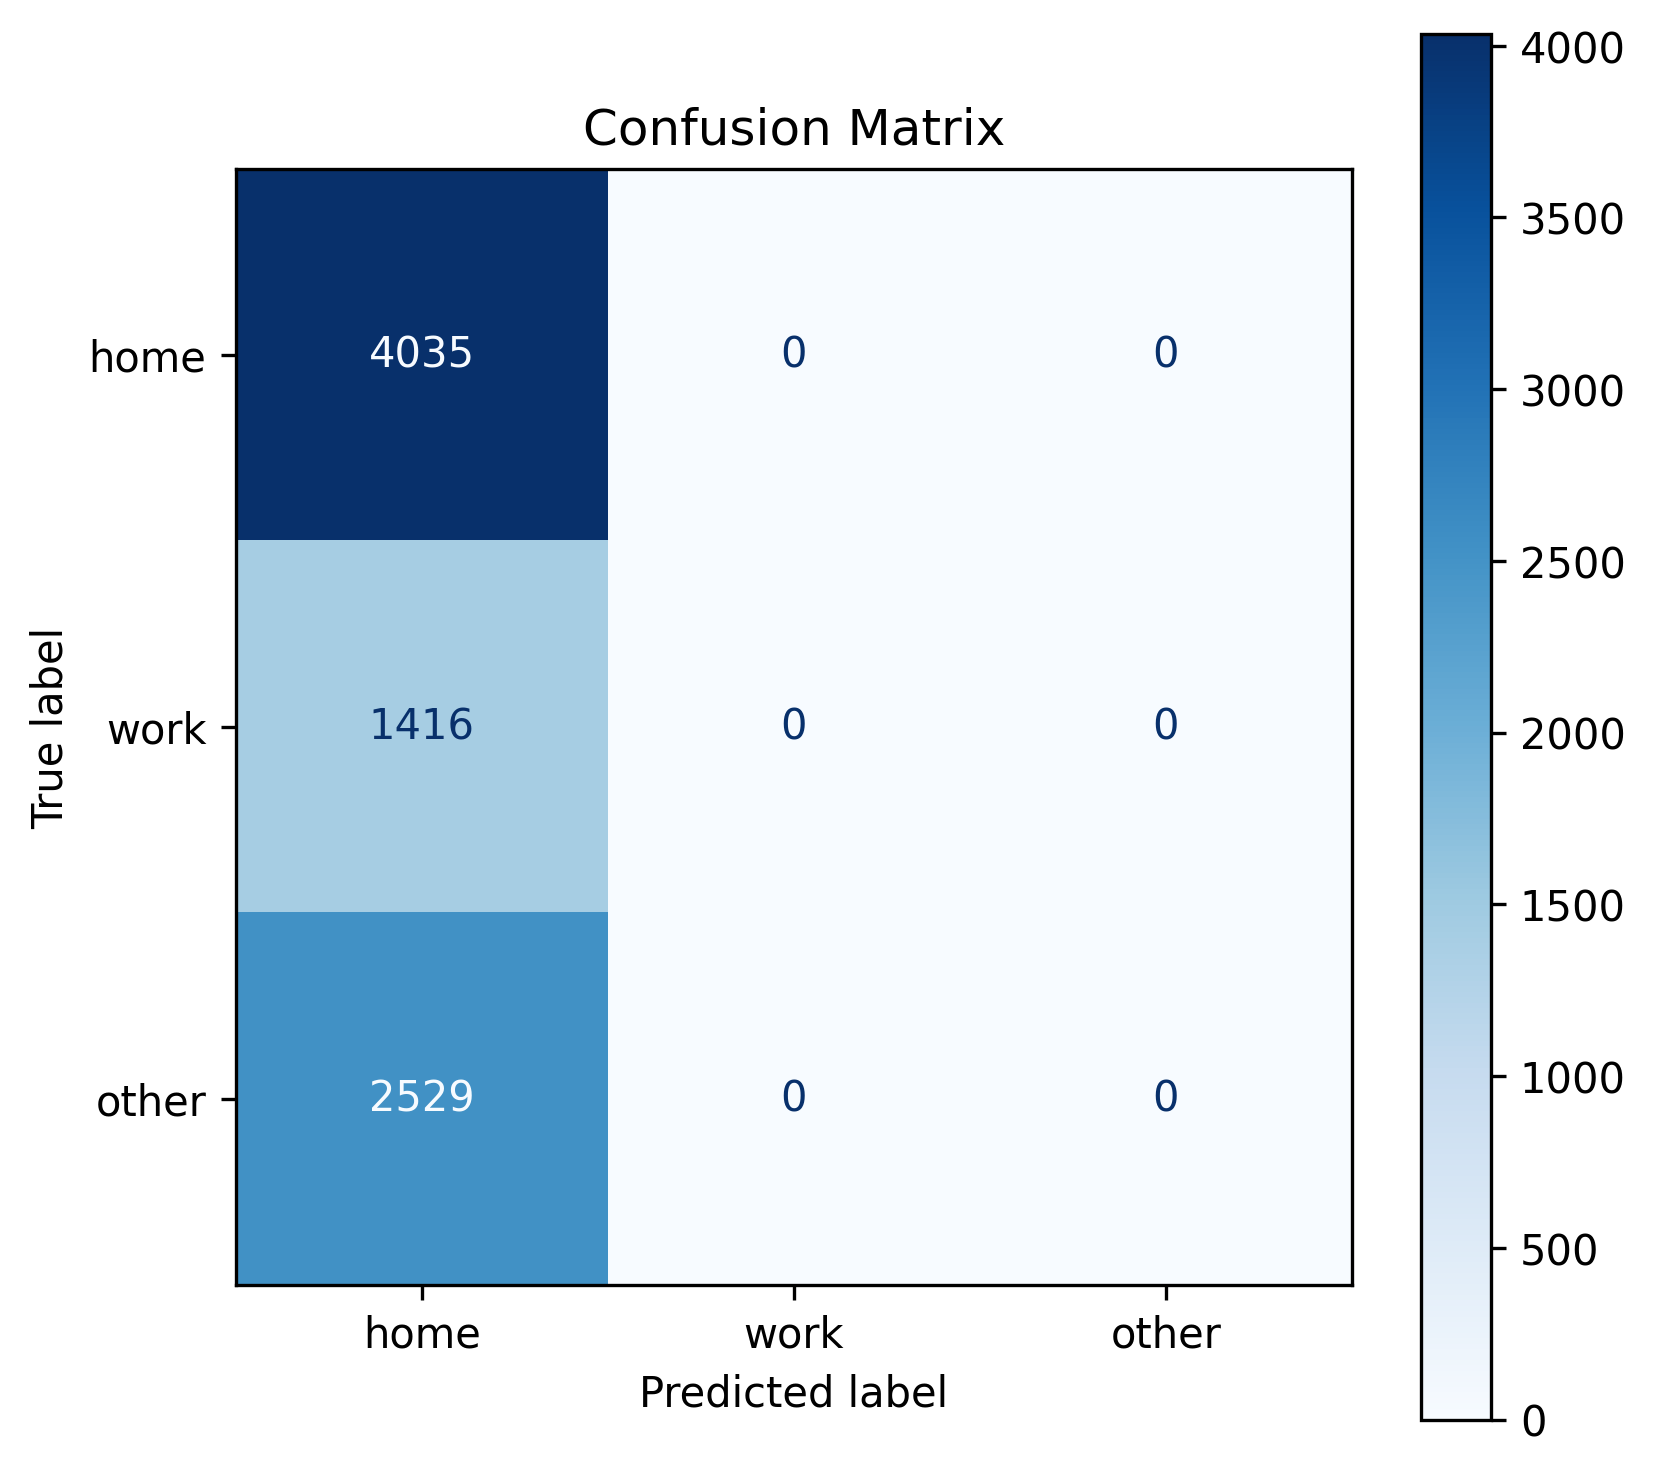
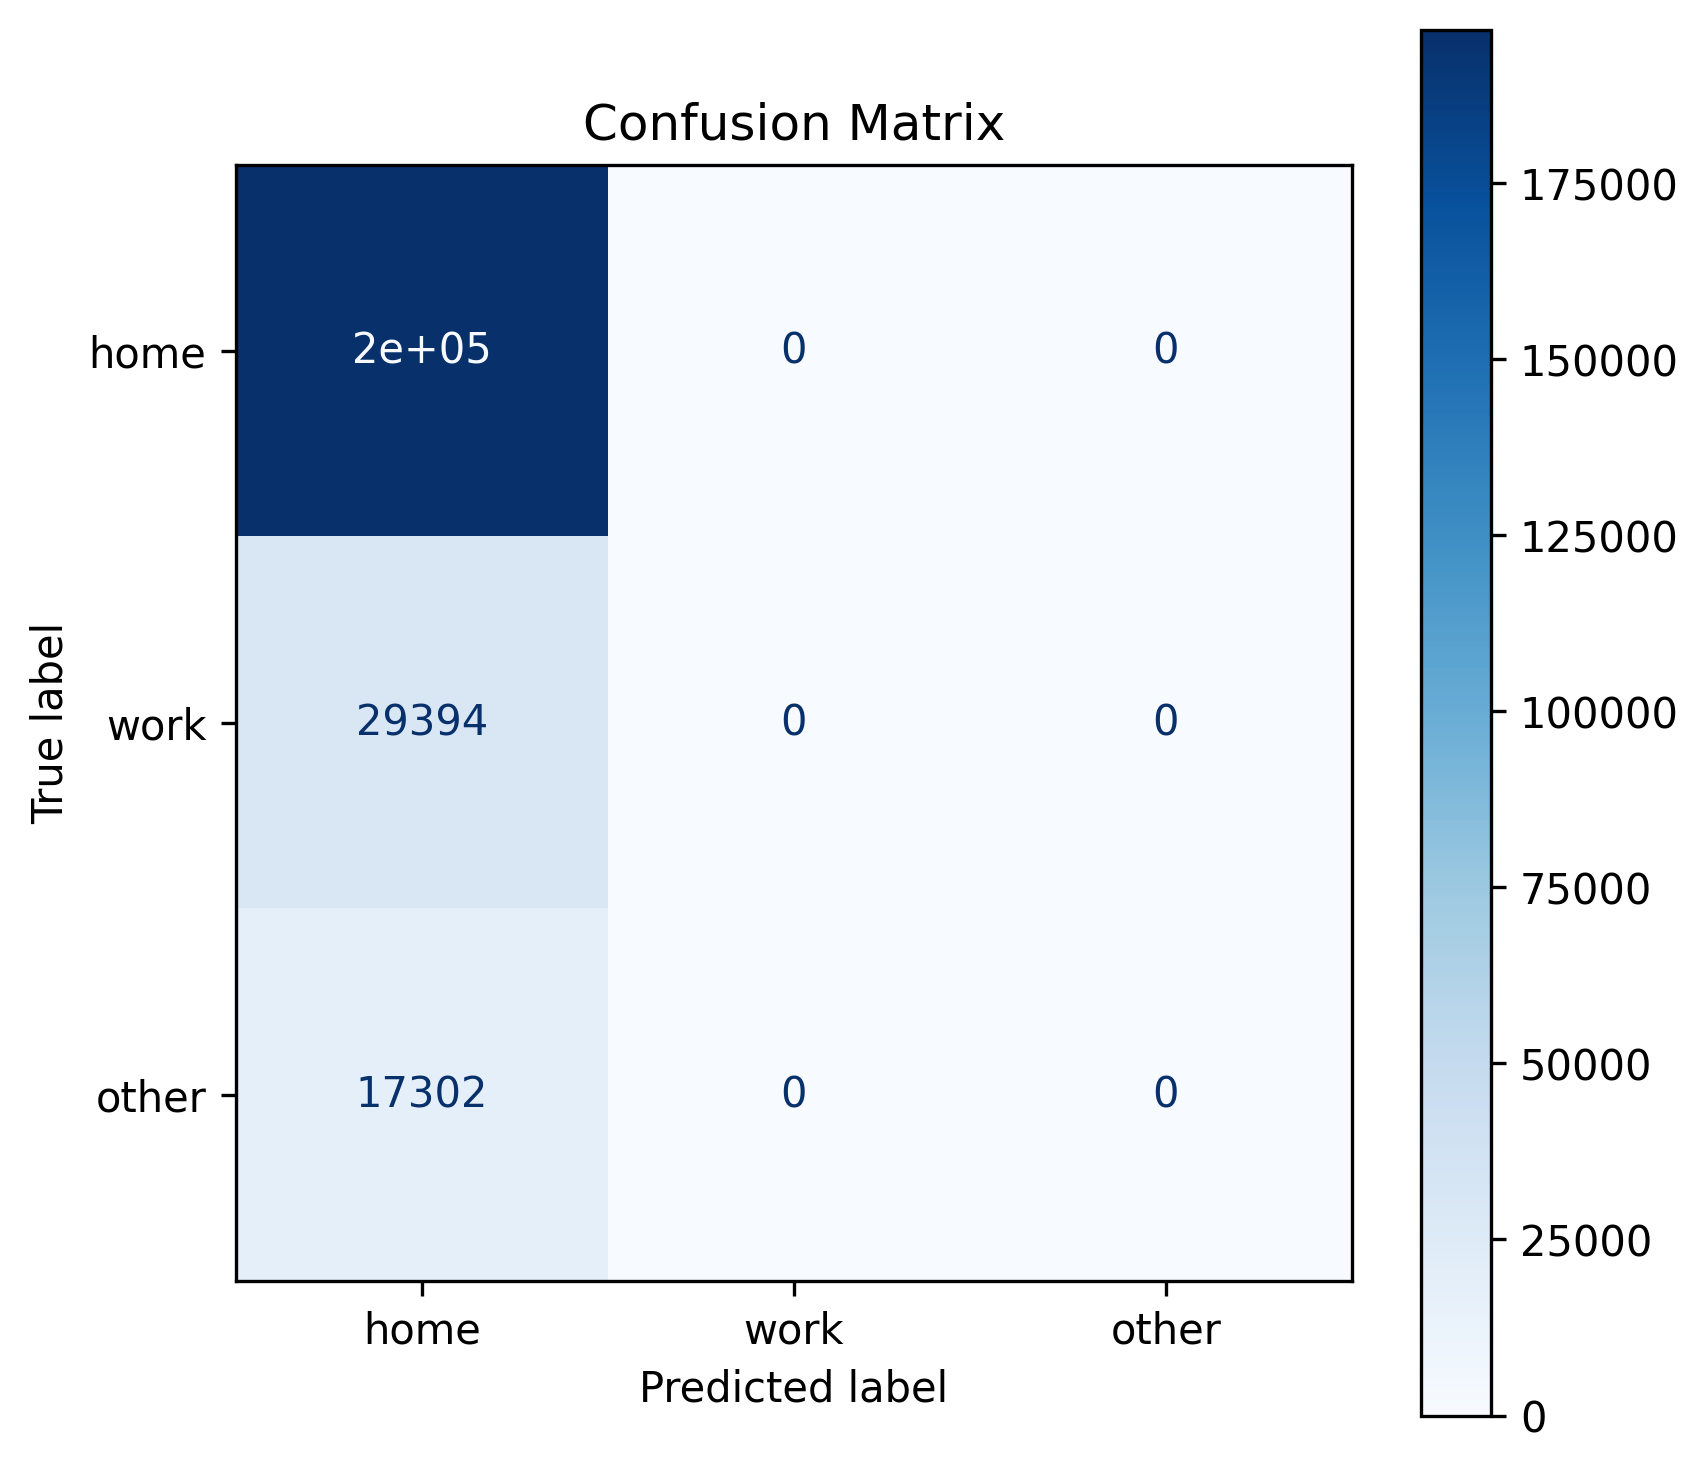
update readme , refine model2

diff --git a/code/model2.py b/code/model2.py
@@ -33,10 +33,10 @@ def process_user(path, k=6):
     df['time_bucket'] = df['datetime'].dt.floor('30min')
     df_buckets = df.groupby('time_bucket').first().reset_index()
 
-    # filter to remove noise from outside the Portland/Vancouver area
+    # filter to remove noise from outside the Spokane area
     df_buckets = df_buckets[
-        (df_buckets.latitude > 45.0) & (df_buckets.latitude < 49.0) &
-        (df_buckets.longitude > -123.0) & (df_buckets.longitude < -122.0)
+        (df_buckets.latitude > 47.3) & (df_buckets.latitude < 47.7) &
+        (df_buckets.longitude > -117.5) & (df_buckets.longitude < -117.3)
     ]
 
     # KMeans clustering

diff --git a/README.md b/README.md
@@ -16,10 +16,12 @@ Analysis Reports can be viewed in /code/analysis/report[ClientID].txt
 
 The heatmaps are generated by code/map[ClientID].py
 
-Model can be found in /code/model.py
-Model evaluation results can be found in /model_result
+'Predictive Model 1 - Portland/Vancouver' can be found in /code/model1.py
+'Predictive Model 2 - Spokane' can be found in /code/model2.py
+Model evaluation confusion matrix can be found in /model_result
 
 To run DBSCAN for the dataset and view exact coordinates of top locations, run helper script `run_all.sh` which can be found in the root directory.
+Although it is not required to do this since the outputs are saved in /code/analysis and /code/maps.
 
 Usage:
 Make the script executable (optional):
